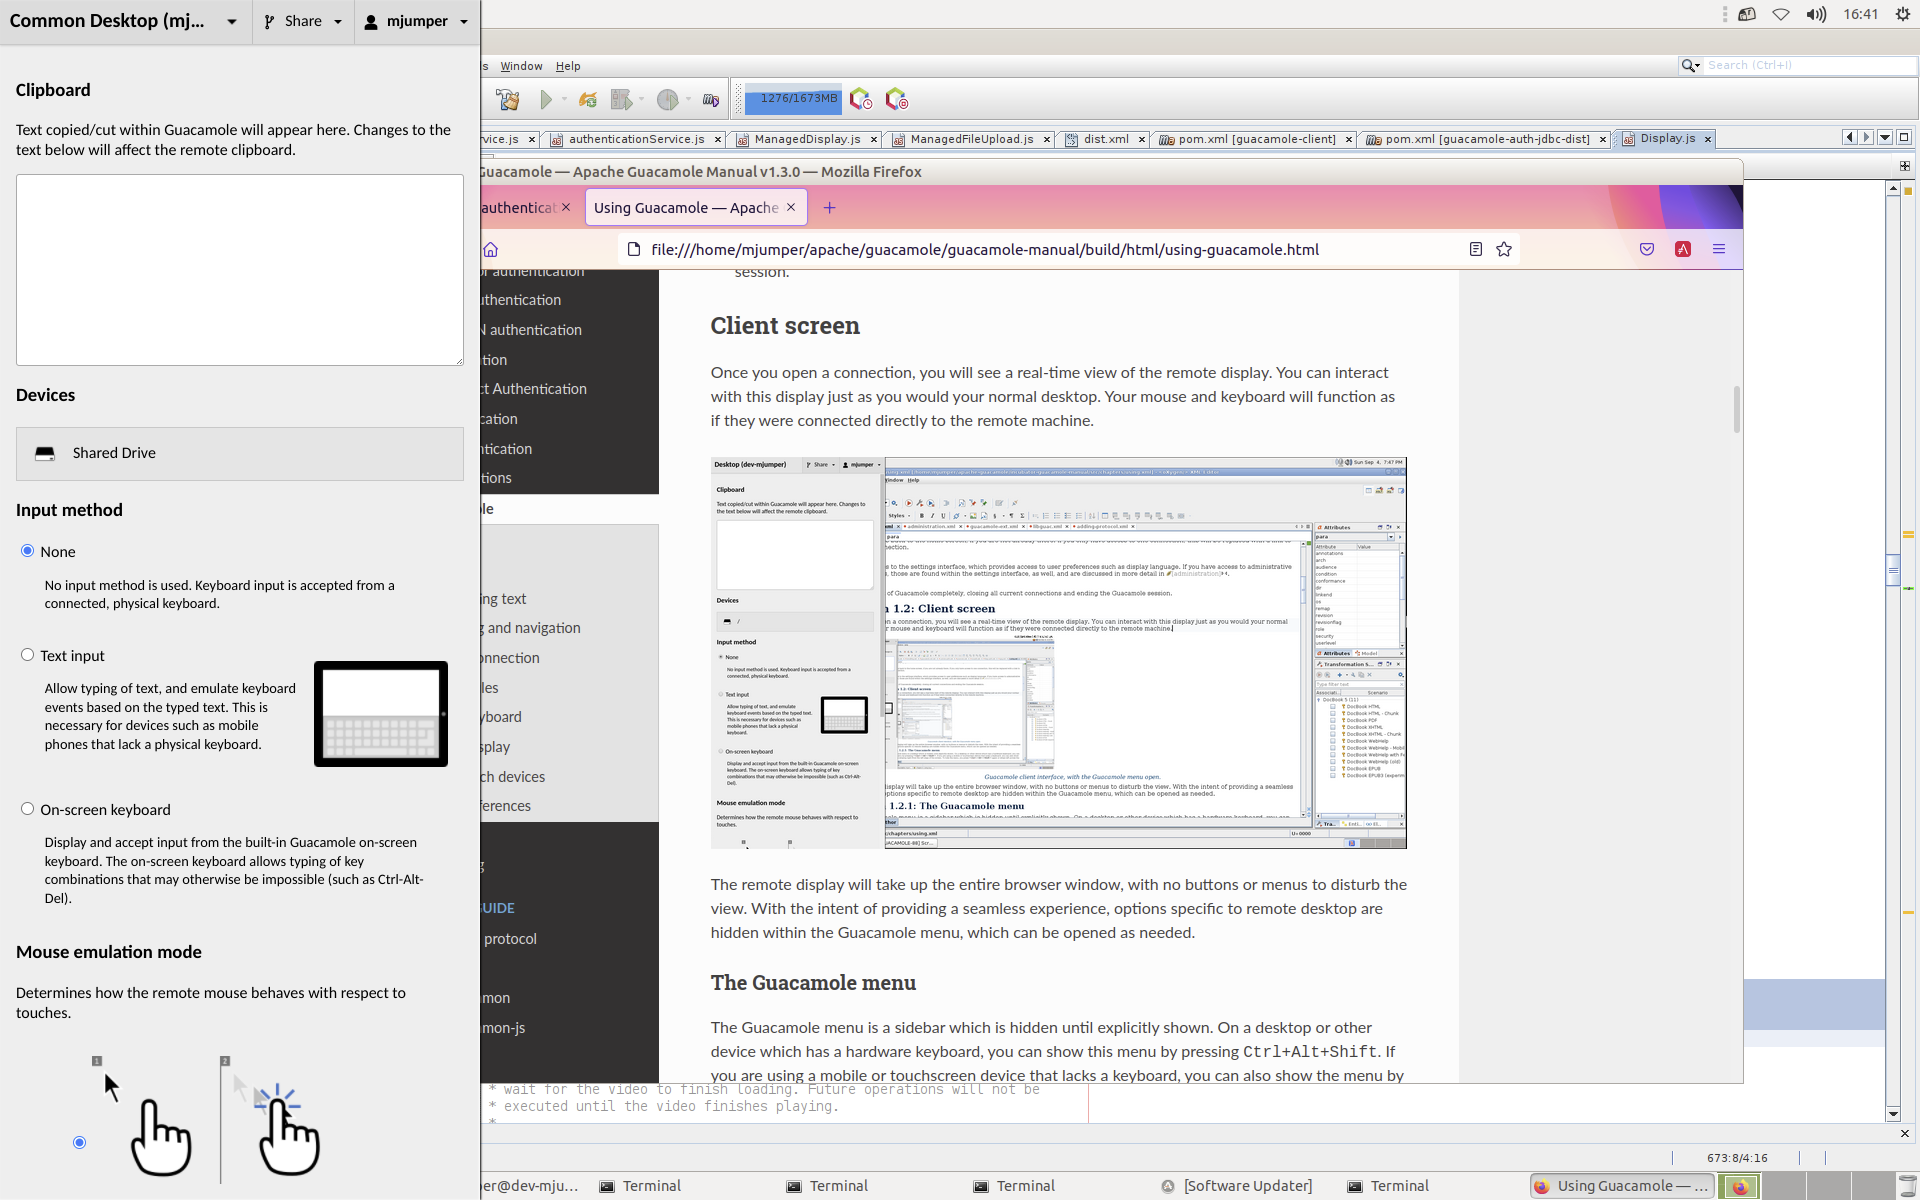
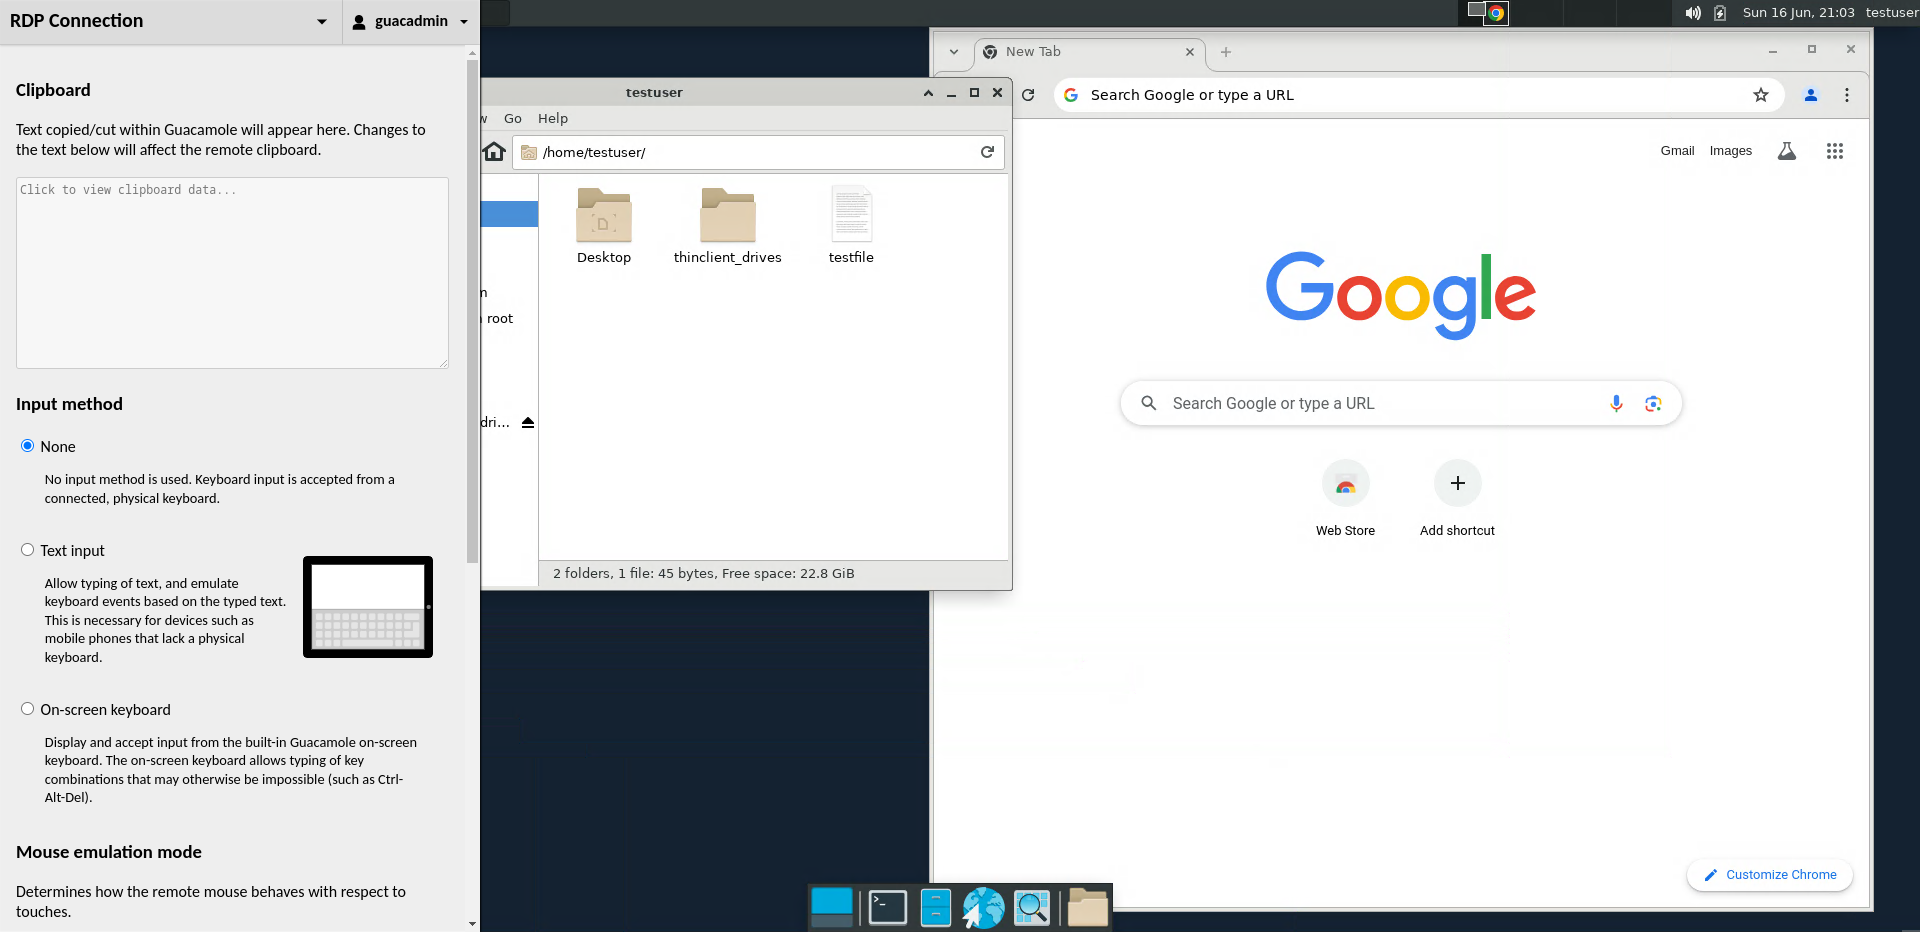
GUACAMOLE-1740: Update documentation to reflect changes to the clipboard interface.

diff --git a/src/using-guacamole.md b/src/using-guacamole.md
@@ -112,12 +112,20 @@ along with some basic instructions:
 > Text copied/cut within Guacamole will appear here. Changes to the text below
 > will affect the remote clipboard.
 
-The text area functions as an interface between the remote clipboard and the
-local clipboard. Text from the local clipboard can be pasted into the text
-area, causing that text to be sent to the clipboard of the remote desktop.
-Similarly, if you copy or cut text within the remote desktop, you will see that
-text within the text area, and can manually copy it into the local clipboard if
-desired.
+If the clipboard API is enabled, the contents of the local clipboard will
+automatically be synchronized to Guacamole, and ultimately to the clipboards
+of the remote systems (assuming the functionality has not been disabled. The
+text area, here, functions as a manual interface to the clipboard, allowing
+text to be manually manipulated - text that you type, or paste into the text
+area will be available to the remote clipboard, and text that is placed on
+the remote clipboard it can be seen in this text area.
+
+For privacy and security reasons, the contents of the clipboard are hidden from
+view until the text area is clicked, and replaced with the following text:
+
+> Click to view clipboard data...
+
+Upon clicking the text area the actual text contents of the local 
 
 (client-connection-menu)=
 
